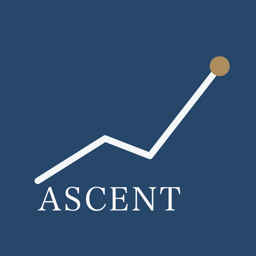
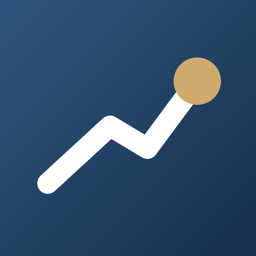
feat(ascent): LP のアイコンを新しいもの（文字なし）にし、参加中のプログラムから始める流れを書く

Changed region(s): [[0.125, 0.2188, 0.9062, 0.8438], [0.7812, 0.7812, 1.0, 1.0]]

diff --git a/ascent/index.html b/ascent/index.html
@@ -182,6 +182,7 @@
       <h1>マイルとポイントを、<br><em>失効させない。</em></h1>
       <p class="sub">マイル・ホテルポイント・クレジットカードの期限と年会費を、一冊の台帳に。毎朝、自分に関係する改定とキャンペーンが届きます。</p>
       <div class="points">
+        <span>ANA・Marriott をすぐ選べる</span>
         <span>期限の通知は無料</span>
         <span>毎朝のお知らせ</span>
         <span>アカウント登録なし</span>
@@ -226,14 +227,14 @@
   <div class="wrap">
     <span class="eyebrow">FEATURES</span>
     <h2>ASCENT でできること</h2>
-    <p class="lead">持っているカードとポイントを入れておけば、あとは ASCENT が期限を見張ります。</p>
+    <p class="lead">参加しているプログラムを選ぶだけで、関係する改定とキャンペーンが届きます。残高を入れれば、あとは ASCENT が期限を見張ります。</p>
 
     <div class="feature first">
       <div class="shot"><img src="img/01_news.jpg" alt="News 画面" loading="lazy"></div>
       <div>
         <span class="num">01 — NEWS</span>
         <h3>毎朝、自分に関係する<br>改定とキャンペーンを上に。</h3>
-        <p>ANA・アメックス・カード会社などの公式の改定・キャンペーン・セール・入会特典を毎朝まとめます。保有しているカードやポイントに当たるものは一番上に並びます。</p>
+        <p>ANA・アメックス・カード会社などの公式の改定・キャンペーン・セール・入会特典を毎朝まとめます。最初に選んだ会員プログラム（ANA マイル・Marriott Bonvoy など）に当たるものは、残高を入れる前から一番上に並びます。</p>
         <ul>
           <li>「今日」の欄に、7 日以内の自分の期限と今日の新着</li>
           <li>関係する新着がある日だけ、選んだ時刻に 1 通お知らせ</li>
